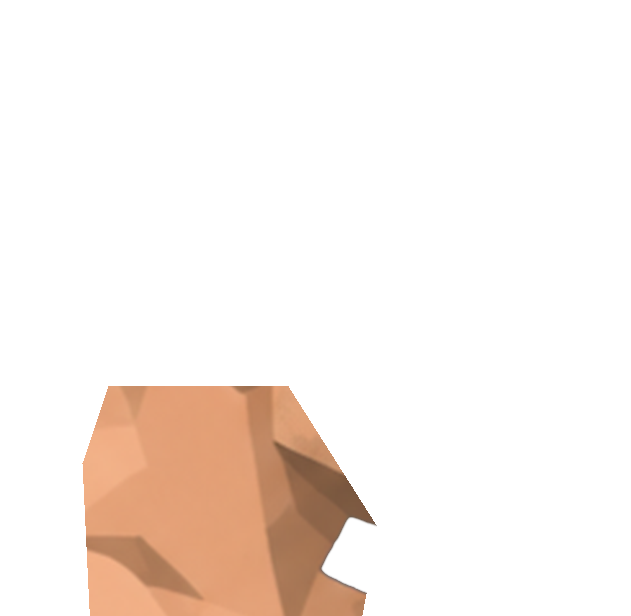
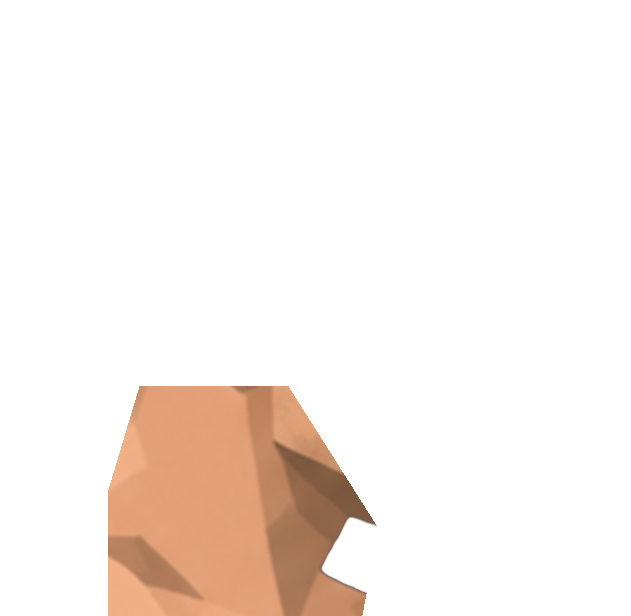
Fedor and Cro Cop: remove the spur behind the neck, shorter neck
Claude-Session: https://claude.ai/code/session_01BMyqTur5CGsYQhULeeiyXv

Changed region(s): [[0.1204, 0.6169, 0.2409, 1.0]]

diff --git a/cage/src/Cutout.js b/cage/src/Cutout.js
@@ -13,7 +13,7 @@ const clamp=(v,a,b)=>v<a?a:v>b?b:v;
 CO.variants=n=>{const c=CURATED[n];return c&&c.variants||null};CO.getVar=n=>{try{const v=+localStorage.getItem('cl_skin_'+n)||0;const c=CURATED[n];return c&&c.variants&&v<c.variants.length?v:0}catch(e){return 0}};CO.setVar=(n,v)=>{try{localStorage.setItem('cl_skin_'+n,String(v))}catch(e){}};
 const CURATED={'Jon Jones':{cutout:'jones',skin:'#6b4a34',shorts:'#232326',glove:'#17171a'},'Anderson Silva':{cutout:'silva',skin:'#8d5c34',shorts:'#1b1b1e',glove:'#17171a',headK:.134},
   'Alex Pereira':{cutout:'pereira',skin:'#c68d5a',shorts:'#1b1b1e',glove:'#17171a',headK:.148,tat:'',variants:[['pereira','머리 있는 버전'],['pereira2','삭발 버전']]},
-  'Fedor Emelianenko':{cutout:'fedor',skin:'#e1a174',shorts:'#1b1b1e',glove:'#17171a',headK:.151,tat:''},'Mirko Cro Cop':{cutout:'cropcop',skin:'#e8a77a',shorts:'#1b1b1e',glove:'#17171a',headK:.155,tat:''},'Israel Adesanya':{cutout:'adesanya',skin:'#80502c',shorts:'#1b1b1e',glove:'#17171a',headK:.157,tat:''}};
+  'Fedor Emelianenko':{cutout:'fedor',skin:'#e1a174',shorts:'#1b1b1e',glove:'#17171a',headK:.151,headDown:.03,tat:''},'Mirko Cro Cop':{cutout:'cropcop',skin:'#e8a77a',shorts:'#1b1b1e',glove:'#17171a',headK:.155,headDown:.03,tat:''},'Israel Adesanya':{cutout:'adesanya',skin:'#80502c',shorts:'#1b1b1e',glove:'#17171a',headK:.157,tat:''}};
 if(typeof lookFor==='function'){const lf=lookFor;window.lookFor=function(f){const L=lf.apply(this,arguments);const C=CURATED[f&&f.n];if(C){Object.assign(L,C);if(C.variants){const v=CO.getVar(f.n);L.cutout=C.variants[v][0];if(v===1&&f.n==='Alex Pereira'){L.skin='#c88c58';L.headK=.154}}}return L}}
 function load(name){let S=CO.sets[name];if(S)return S;S=CO.sets[name]={ready:false};
   fetch('assets/cutout/'+name+'/parts.json').then(r=>r.json()).then(m=>{S.meta=m;const im=new Image();im.onload=()=>{S.img=im;S.ready=true};im.src='assets/cutout/'+name+'/'+m.image}).catch(()=>{S.failed=true});

diff --git a/cage/tools/build_head2.py b/cage/tools/build_head2.py
@@ -9,7 +9,7 @@ CFG={
    jaw=[(577,143),(598,152),(610,170),(625,190),(640,205),(660,215),(660,260)],
    backN=[(143,537),(180,527),(200,527),(260,530)],frontN=[(143,600),(200,620),(260,610)],
    eye=(658,108),brow=(663,97),brow2=(643,100),nosef=(678,135),cheek=(637,128),fore=(637,67),lip=(675,160),mouth=(673,165,38,16),lid='#b97d4a'),
- 'fedor':dict(top=36,chin=213,back=535,nose=703,neckTop=162,cut=3,clipX=690,
+ 'fedor':dict(taper=(40,13),ntaper=(40,12),top=36,chin=213,back=535,nose=703,neckTop=162,cut=3,clipX=690,
    jaw=[(597,162),(605,187),(633,203),(657,218),(690,222)],
    backN=[(162,537),(200,528),(285,530)],frontN=[(162,605),(220,628),(285,610)],
    eye=(670,123),brow=(680,115),brow2=(660,119),nosef=(693,155),cheek=(663,143),fore=(653,77),lip=(685,175),mouth=(687,180,38,16),lid='#d99a6d'),
@@ -17,7 +17,7 @@ CFG={
    jaw=[(597,150),(607,173),(633,193),(653,203),(677,208),(690,212)],
    backN=[(150,537),(180,528),(285,530)],frontN=[(150,600),(210,625),(285,610)],
    eye=(663,110),brow=(667,98),brow2=(650,100),nosef=(683,143),cheek=(653,130),fore=(657,63),lip=(673,163),mouth=(675,167,38,16),lid='#b97d4a'),
- 'cropcop':dict(top=15,chin=203,back=508,nose=673,neckTop=150,cut=2,clipX=655,
+ 'cropcop':dict(taper=(40,13),ntaper=(40,12),top=15,chin=203,back=508,nose=673,neckTop=150,cut=2,clipX=655,
    jaw=[(573,150),(587,173),(613,192),(633,200),(655,203)],
    backN=[(150,510),(180,500),(285,505)],frontN=[(150,580),(205,615),(285,600)],
    eye=(640,112),brow=(643,103),brow2=(630,107),nosef=(663,143),cheek=(633,140),fore=(633,57),lip=(653,165),mouth=(655,168,38,16),lid='#e09a70'),
@@ -48,7 +48,12 @@ jline=lambda y:np.interp(y,jy,jx)
 headm=((yy<neckTop+10)|(xx>jline(yy)-4))&(yy<Y(C['chin'])+C.get('cut',12))&((xx<X(C.get('clipX',9999)))|(yy<Y(C['chin'])-10))   # nothing below the chin: the glove / shoulder of the full-body art stays out
 by=[Y(p[0]) for p in C['backN']];bx=[X(p[1]) for p in C['backN']];fy=[Y(p[0]) for p in C['frontN']];fx=[X(p[1]) for p in C['frontN']]
 neckm=(yy>=neckTop)&(xx>=np.interp(yy,by,bx))&(xx<=np.interp(yy,fy,fx))
+if 'taper' in C:   # round off the skull's lower-back corner so no spur sticks out behind the neck when it bends
+    ta,dx=C['taper'];xs=np.interp(yy,[neckTop-Y(ta),neckTop+10],[X(C['back'])-6,X(C['back'])+Y(dx)])
+    headm=headm&(xx>=xs)
 head=rgba.copy();head[...,3]=(rgba[...,3]*headm).astype(np.uint8)
+if 'ntaper' in C:   # the neck piece's top-back corner is rounded off too
+    nl,nd=C['ntaper'];b0=np.interp(neckTop,by,bx);neckm=neckm&(xx>=np.interp(yy,[neckTop,neckTop+Y(nl)],[b0+Y(nd),b0]))
 neck=rgba.copy();neck[...,3]=(rgba[...,3]*neckm).astype(np.uint8)
 Image.fromarray(head).save(out+'/head.png');Image.fromarray(neck).save(out+'/neck.png')
 rows=[None]*CH;na=neck[...,3]
